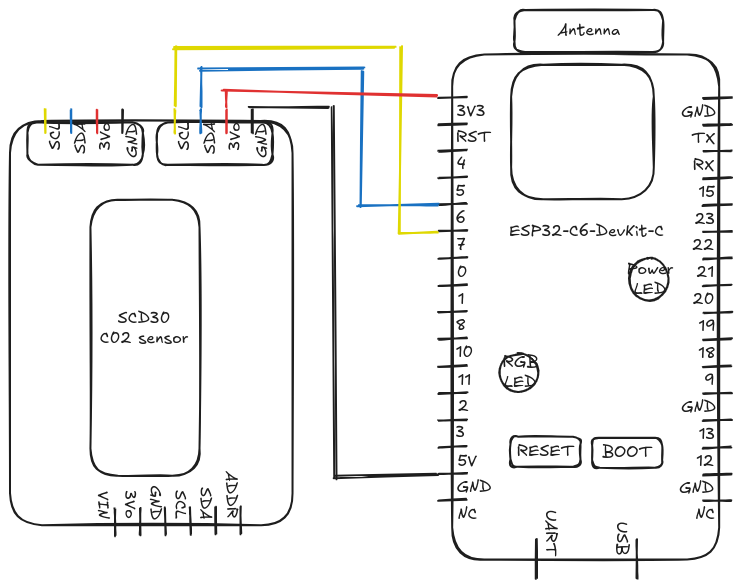
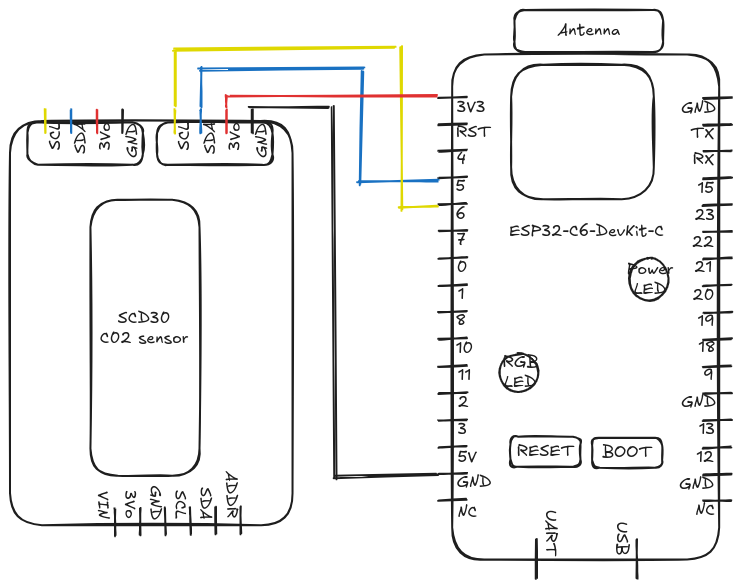
Update readme & diagram

diff --git a/README.md b/README.md
@@ -16,6 +16,8 @@ Basic reading of SCD30 CO2 sensor on a ESP32-C6 dev board.
 
 ## Electronic diagram
 
+Interface used : I²C
+
 ![Electronic diagram](SCD30_ESP32-C6.png)
 
 ## IDE & Librairies
